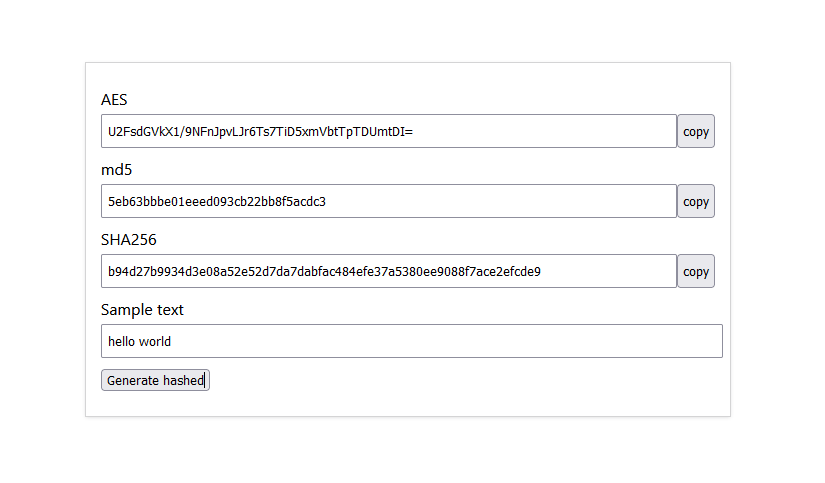
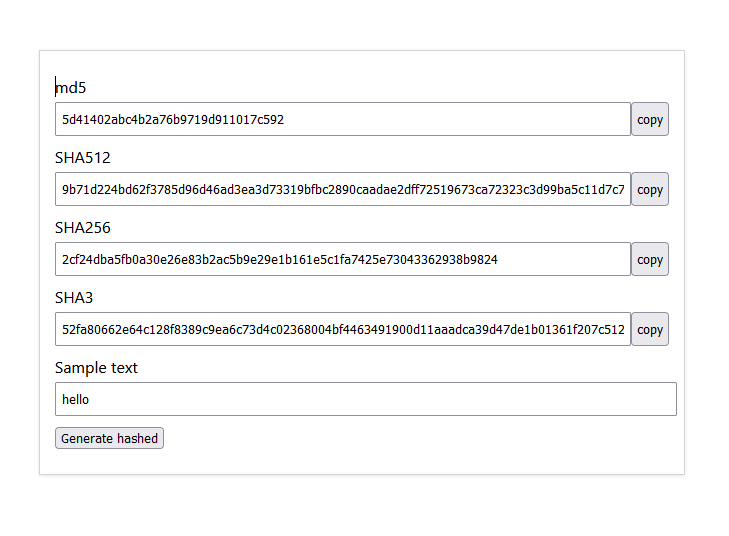
updates

Changed region(s): [[0.0604, 0.1242, 0.9355, 0.8385], [0.8752, 0.7453, 0.9053, 0.7764], [0.8752, 0.6832, 0.9053, 0.7143]]

diff --git a/content/articles/build-a-hash-generator-application-using-reactjs/index.md b/content/articles/build-a-hash-generator-application-using-reactjs/index.md
@@ -1,26 +1,65 @@
-Hashing is the process of converting an input of any length into a fixed-sized string of text using a mathematical function. This means that any text can be converted into an array of numbers and letters through an algorithm, no matter how long it is. The text being converted/hashed is referred to as an input. The algorithm used to covert this string is called a hash function. The generated value is called a Hash value. A hashed text also referred to as ciphertext, is encrypted plain text. Encryption converts the original information, i.e., plain text, to an alternative form where only the authorized parties can understand it, i.e., ciphertext using an algorithm.
+Hashing is the process of converting an input of any length into a fixed-sized string of text using a mathematical function. This means that any text can be converted into an array of numbers and letters through an algorithm, no matter how long it is. The text being converted/hashed is referred to as an input. The algorithm used to covert this string is called a hash function. The generated value is called a Hash value. A hashed text is also referred to as digest. Hashing converts the original information, i.e., plain text, to an alternative form where only the authorized parties can understand it.
 
-This guide will teach the reader about the Hash functions and illustrates how to build a Hash generator application using React.js. We will create a simple app that calculates hashes from text strings, encrypts them, and sends back the hashed text to the user.
+This guide will teach the reader about the Hash functions and illustrates how to build a Hash generator application using React.js. We will create a simple app that calculates hashes from text strings, hash them, and send back the hashed text to the user.
 
-### Pre-requisites
+### Prerequisites
 To follow along with this article, ensure you have the following basic requirements:
 
 - [Node.js](https://nodejs.org/en/) installed on your computer.
-- Basic knowledge of JavaScript and React.js framework.
-- Basic knowledge of cryptography, i.e., encryption.
+- Some basic knowledge of working JavaScript and React.js framework.
+- Understand the concept of cryptography.
 
 ### Overview
-- [Pre-requisites](#pre-requisites)
+- [Prerequisites](#prerequisites)
 - [Overview](#overview)
-- [Setting up a React.js application](#setting-up-a-reactjs-application)
-- [Setting up crypto](#setting-up-crypto)
+- [Different types of Hash functions](#different-types-of-hash-functions)
+- [Characteristic of a Good Hash function](#characteristic-of-a-good-hash-function)
+- [Encryption vs. Hashing](#encryption-vs-hashing)
+- [Setting up a Hash Generator using React.js](#setting-up-a-hash-generator-using-reactjs)
+- [Setting up Crypto](#setting-up-crypto)
 - [Generating hashed text from user input](#generating-hashed-text-from-user-input)
 - [Conclusion](#conclusion)
 
-### Setting up a React.js application
-To set up a React app, we will use the [create-react-app](https://github.com/facebook/create-react-app) tool. It does the heavy lifting of configuring webpack and babel so that you can focus on the code.
+### Different types of Hash functions
+Hash functions, also known as hash algorithms, are used to create digital fingerprints and signatures. A hash function maps arbitrary strings. It breaks it up. Then these arbitrary strings of data are going to get mapped to a fixed-length output. Even if the size of the input strings is changed, the output strings or the hash remains of the same length for a particular hash function. They are different types of hash functions that you can use to hash any input values. Some of the popular hash functions include:
 
-To set it up, follow the below steps:
+- Message Digest (MD)
+
+It's a hash function that produces a 128-bit hash value. It accepts an input of any length, and it returns as output a fixed-length digest value used for authenticating the original messages. Digest size is always 128 bits, irrespective of the input. MD5 was designed as an improvement to a prior MD4 message-digest algorithm
+
+- Secure Hash Function (SHA)
+
+Secure Hash Algorithms, also known as SHA, are a family of cryptographic hash functions designed to keep secure data developed by the National Security Agency (NSA). It does so by converting the data into a hash. It uses a modular algorithm that accepts various bitwise operations and compression functions. There are different SHA family hash functions. This include:
+
+1. SHA-0 - This algorithm generates a 160-bits string value as the hash. It developed weaknesses, and its algorithm didn't become very popular, and SHA-1 was designed to correct its weaknesses.
+
+2. SHA-1 - SHA-1 is the most widely used type of hash function. It is used in various applications and protocols such as Secure Socket Layer (SSL). In 2005, a method was discovered that could detect collisions with SHA-1 algorithms within a practical time frame.
+
+3. SHA-2 - The SHA-2 family has four variants, namely, SHA-224, SHA-25, SHA-256, and SHA-512. There have been no successful attacks reported in this family. Although SHA-2 is a strong hashing function, its basic design is still based on SHA-1. This prompted the National Institute of Standards and Technology to call for new competitive hash functions.
+
+4. SHA-3 - In October 2012, the National Institute of Standards adopted the Keccak algorithm for the SHA-3 cryptographic standard. This algorithm features many advantages, such as better performance and better resistance against attacks.
+
+### Characteristic of a Good Hash function
+- It should be easy to convert the input to its digest but not vice versa.
+
+- The hashes should always look random. This means that if you change one value anywhere in the input string, the whole digest should change, the hash digest should change. There should be no pattern between changes in text and changes in the hash. It changes to another completely random value.
+
+- Free collisions - finding a duplicate of another generated hash value should be practically impossible.
+- It should not be expensive. A good hash function should be computationally efficient because it should be practical be applied in an application.
+
+- It should have the capacity to hash diffrent kinds of data. Although this guide hashes text, a good hash function should have the capacity to hash other data inputs such as files. With this, we can track if a file has been changed. With such properties, you can treat if a file has been changed, given that changes a single bit of that file will generate a whole different hash value.
+
+### Encryption vs. Hashing
+Although the process hash function uses the hashing algorithms to generate the hash value, they are primarily used for comparison, not for encryption purposes. One thing to note is that hashed outputs are generated in a public fashion. So everything is public. There's no secrecy.
+
+Encryption is a special type of encoding that is used for transferring private data. In encryption, the data to be encrypted is transformed using encryption algorithms like Revrest-Shamir-Adleman (RSA) using the method called a cipher. The encrypted data is also called the ciphertext. Unlike the hash, ciphertext and be decoded and converted to the actual original input. Ciphertext facilitates a private/secret sharing of data. In this case, the sender encoded the original data and sent it as ciphertext. The recipient will decode the sent ciphertext and convert it back to plaintext to understand the shared message.
+
+Hashed data is non-reversible. For example, when hashing is being used for logging system purposes. Once the user logins, the partial password is hashed using a hashing algorithm, which is checked against the database. So if the hash keys are the same, the user is given login permission, achieving integrity. And these processes are all non-reversible. so if you hash a word, a password, or file, you can't take that hash value and then find out what the original input was
+.
+Ciphertext length varies. A ciphertext length depends on the length of the messages being shared. So is the messages are long, the ciphertext will be generated based on the input text. However, a hash will always have the same length based on the hash function being used. If you were to hash a single word and an entire book with a hash function, you would still get the same length of the different hash values.
+
+### Setting up a Hash Generator using React.js
+To set up a React app, we will use the [create-react-app](https://github.com/facebook/create-react-app) tool. It does the heavy lifting of configuring Webpack and Babel so that you can focus on the code to scale up the application.
 
 First, create your desired project folder on your computer, then run the following command to bootstrap a React boilerplate application.
 
@@ -34,77 +73,74 @@ Give it a few minutes for the application to be fully set up once the process co
 cd hash-generator-app
 ```
 
-Finally, start the development server by running:
+Finally, start the development server by running;
 
 ```bash
 npm run start
 ```
 
-The above command will start the development server on port *3000*. A default page will also be loaded from your default browser that loads a simple React Hello world page.
+The above command will start the development server on port `3000`. A default page will also be loaded from your default browser that loads a simple React Hello world page.
 
-### Setting up crypto
-As mentioned earlier, to convert the text that the user will input to an encoded text, we will need to use an encryption algorithm.
+### Setting up Crypto
+As mentioned earlier, to convert the text that the user will input to an encoded text, we need to use a hashing algorithm.
 
-In JavaScript, the encryption algorithm is used from the crypto module. Therefore, we will need to have the crypto module installed in our application. To do this, open a separate tab from your terminal and run the following command:
+In JavaScript, the hashing algorithm is used from the Crypto module. Therefore, we need to have the Crypto module installed in our application. To do this, run the following command.
 
 ```bash
 npm install crypto-js
 ```
 
-After the installation is complete, we are now ready to get to the fun part in the next step.
-
 ### Generating hashed text from user input
-We will start by working on the form with which the user will interact. Replace the boilerplate code from the *src/App.js* file with the following:
+We will start by setting up a form where the user will add some text as the input. Replace the boilerplate code in your `src/App.js` file with the below code block.
 
 ```js
-import {useState} from "react";
+import { useState } from "react";
 import './App.css';
 
 function App() {
 
-// user input text
-const [plain_text,setPlainText] = useState("");
+    // user input text
+    const [plain_text, setPlainText] = useState("");
 
-// submit handler
-const onSubmit = e => {
-    e.preventDefault();
+    // submit handler
+    const onSubmit = e => {
+        e.preventDefault();
+    }
+
+    return (
+        <div className="App">
+
+            <form className="form" onSubmit={onSubmit}>
+
+                <div className="form-content">
+
+                    <div className="form-group">
+                        <label>
+                            Sample text
+                        </label>
+                        <input type="text" placeholder="Enter any text" value={plain_text} onChange={
+                            (e) => setPlainText(e.target.value)
+                        } />
+                    </div>
+
+
+                    <div className="form-group">
+                        <button className="submit-btn" type="submit">
+                            Generate hashed
+                        </button>
+                    </div>
+
+                </div>
+
+            </form>
+
+        </div>
+    );
 }
-
-return (
-    <div className="App">
-
-    <form className="form" onSubmit={onSubmit}>
-
-        <div className="form-content">
-
-        <div className="form-group">
-        <label>
-            Sample text
-        </label>
-        <input type="text" placeholder="Enter any text" value={plain_text} onChange={
-            (e) => setPlainText(e.target.value)
-        } />
-        </div>
-
-
-        <div className="form-group">
-        <button className="submit-btn" type="submit">
-            Generate hashed 
-        </button>
-        </div>
-
-        </div>
-
-    </form>
-
-    </div>
-);
-}
-
 export default App;
 ```
 
-From above, we are showing the form with a field for user's input. The form is submitted when a user hits the *Generate hashed* button. Then edit *src/App.css* as such to give the form some styles:
+We are showing the form with a field for the user's text input. The form is submitted when a user hits the `Generate hashed` button. Then edit `src/App.css` as such to give the form some styles.
 
 ```css
 .App {
@@ -145,103 +181,110 @@ From above, we are showing the form with a field for user's input. The form is s
 }
 ```
 
-After saving the changes, your page should have the following form:
+After saving the changes, your page should have the following form.
 
 ![generate-hash-form](/engineering-education/build-a-hash-generator-application-using-reactjs/generate-hash-form.png)
 
-The next step will involve working on the *onSubmit* function so that we can hash the text that the user is sending, store it in the state, and then display it.
+The next step will involve working on the `onSubmit` function to hash the text that the user is sending, store it in the state, and then display it.
 
-In *src/App.js* file, import *crypto*:
+In the `src/App.js` file, import the Crypto module and set states for different hash functions, as shown below.
 
 ```js
 import crypto from "crypto-js";
-```
 
-Set a state for different *hashed_texts* we will have as below:
-
-```js
 const [aes_hashed_text,setAesHashedText] = useState("");
 const [md5_hashed_text,setMd5HashedText] = useState("");
+const [sha512_hashed_text,setSha512HashedText] = useState("");
 const [sha256_hashed_text,setSha256HashedText] = useState("");
+const [sha3_hashed_text,setSha3HashedText] = useState("");
 ```
 
-In the *onSubmit* function, set a key, hash the text using different algorithms and set each record to state:
+In the `onSubmit` function, set a key, hash the text using different algorithms and set each record to `state`.
 
 ```js
 const onSubmit = e => {
-    e.preventDefault();
+    e.preventDefaul
 
-    // key
-    let key = "my_super_secret_key";
-
-    // aes encryption
-    setAesHashedText(
-    crypto.AES.encrypt(plain_text,key).toString()
-    );
-    
     // md5
     setMd5HashedText(
-    crypto.MD5(plain_text).toString()
+        crypto.MD5(plain_text).toString()
+    );
+
+    // sha512
+    setSha512HashedText(
+        crypto.SHA512(plain_text).toString()
     );
 
     // sha256
     setSha256HashedText(
-    crypto.SHA256(plain_text).toString()
+        crypto.SHA256(plain_text).toString()
+    );
+
+    //sha3
+    setSha3HashedText(
+        crypto.SHA3(plain_text).toString()
     );
 
 }
 ```
 
-Feel free to change the key to any string you want.
+Here we are using [MD5](https://www.sciencedirect.com/topics/computer-science/message-digest-algorithm-5), [SHA512](https://medium.com/@zaid960928/cryptography-explaining-sha-512-ad896365a0c1). [SHA256](https://qvault.io/cryptography/how-sha-2-works-step-by-step-sha-256/) and [SHA3](https://www.movable-type.co.uk/scripts/sha3.html). Feel free to change the hash function to any string you want to generate.
 
-For the encryption, we are using [AES](https://www.tutorialspoint.com/cryptography/advanced_encryption_standard.htm), [MD5](https://www.sciencedirect.com/topics/computer-science/message-digest-algorithm-5), and [SHA256](https://qvault.io/cryptography/how-sha-2-works-step-by-step-sha-256/) algorithms.
+All the above algorithms use asymmetric encryption, meaning they do not use any key during hashing. In all cases, we are converting to string so that we can view the output.
 
-While using *AES*, we are encrypting utilizing the user's input and the key, whereas *MD5* and *SHA256* do not have a key. *AES* follows symmetric encryption, whereas *MD5* and *SHA256* follow asymmetric encryption.
-
-In all cases, we are converting to string so that we can view the output.
-
-Add the following to the form inside the *form-content* div so that you can view the generated hashed texts:
+Add the following to the form inside the `form-content` `div` so that you can view the generated hashed values.
 
 ```js
-    {
-        aes_hashed_text ? (
-        <div className="form-group">
-            <label>AES</label>
-            <div className="hashed-data-content">
-            <input type='text' readOnly value={aes_hashed_text} />
-            <button type="button" onClick={ () => copyToClipboard(aes_hashed_text)}>copy</button>
-            </div>              
-        </div>
-        ) : null
-    }
-
-
-    {
-        md5_hashed_text ? (
+{
+    md5_hashed_text ? (
         <div className="form-group">
             <label>md5</label>
             <div className="hashed-data-content">
-            <input type='text' readOnly value={md5_hashed_text} />
-            <button type="button" onClick={ () => copyToClipboard(md5_hashed_text)}>copy</button>
-            </div>              
+                <input type='text' readOnly value={md5_hashed_text} />
+                <button type="button" onClick={() => copyToClipboard(md5_hashed_text)}>copy</button>
+            </div>
         </div>
-        ) : null
-    }
+    ) : null
+}
 
-    {
-        sha256_hashed_text ? (
+{
+    sha512_hashed_text ? (
+        <div className="form-group">
+            <label>SHA512</label>
+            <div className="hashed-data-content">
+                <input type='text' readOnly value={sha512_hashed_text} />
+                <button type="button" onClick={() => copyToClipboard(sha512_hashed_text)}>copy</button>
+            </div>
+        </div>
+    ) : null
+}
+
+{
+    sha256_hashed_text ? (
         <div className="form-group">
             <label>SHA256</label>
             <div className="hashed-data-content">
-            <input type='text' readOnly value={sha256_hashed_text} />
-            <button type="button" onClick={ () => copyToClipboard(sha256_hashed_text)}>copy</button>
-            </div>              
+                <input type='text' readOnly value={sha256_hashed_text} />
+                <button type="button" onClick={() => copyToClipboard(sha256_hashed_text)}>copy</button>
+            </div>
         </div>
-        ) : null
-    }
+    ) : null
+}
+
+{
+    sha3_hashed_text ? (
+        <div className="form-group">
+            <label>SHA3</label>
+            <div className="hashed-data-content">
+                <input type='text' readOnly value={sha3_hashed_text} />
+                <button type="button" onClick={() => copyToClipboard(sha3_hashed_text)}>copy</button>
+            </div>
+        </div>
+    ) : null
+}
 ```
 
-Add the following style in *src/App.css* to cater to the hashed data display:
+Add the following style in `src/App.css` to format the displayed hashed values.
 
 ```css
 .hashed-data-content{
@@ -251,15 +294,26 @@ Add the following style in *src/App.css* to cater to the hashed data display:
 }
 ```
 
-Ensure that the development server is still running and refresh your browser's tab. Fill in a sample text and hit the *Generate hash* button. You should be able to view the hashed text as below:
+Ensure that the development server is still running and refresh your browser's tab. If the server is not running, start using `npm run dev` and open `http://localhost:3000/` in your browser. Fill in a sample text and hit the `Generate hash` button. You should be able to view the hashed text as shown below.
 
 ![generated-hash-form-with-output](/engineering-education/build-a-hash-generator-application-using-reactjs/generated-hash-form-with-output.png)
 
 ### Conclusion
-In this article, we have been able to create a hashed text generator application based on the user's input using React Js and *crypto* module.
+To be considered cryptographically secure, the hash functions should be impossible for an attacker to generate a message that matches a specific hash value. Even a slight change in the plaintext should trigger a drastic difference in the two digests. This way, it is impossible for an attacker to create two messages that produce the same hash value. So there is no way to regenerate the plain text.
 
-To gain more insights about encryption algorithms and crypto, reference the following resources:
+In this article, we have created a hashed text generator application based on the user's input using React and the Crypto module.
+
+To Learn more about these algorithms and Crypto, check the following resources:
+- [Understanding Hashing in Cryptography](/engineering-education/understand-hashing-in-cryptography/)
+
+- [How Password Hashing Occurs](/engineering-education/how-password-hashing-occurs/)
+
+- [What Is MD5 and Why Is It Considered Insecure?](/engineering-education/what-is-md5/)
+
+- [Hapi Validation, Bcrypt Hashing, and JWT in Action](/engineering-education/hapi-validation-bcrypt-hashing-and-jwt/)
 
 - [Symmetric/Secret key encryption](/engineering-education/secret-key-cryptography-in-js/)
+
 - [Asymmetric/Public key encryption](/engineering-education/implementing-public-key-cryptography-in-javascript/)
+
 - [Crypto Node.js module](https://nodejs.org/api/crypto.html)
